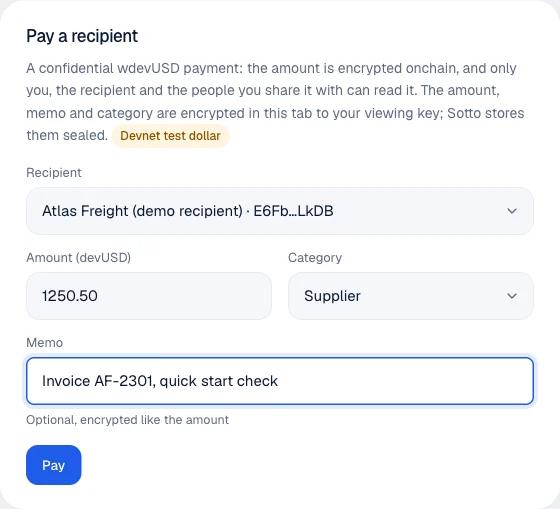
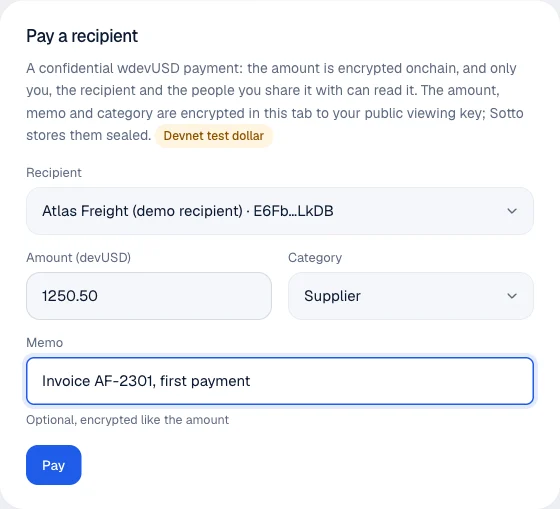
docs(web): the walkthrough's checklist and pay pictures from the live site, and the rehearsal as measured
The four pictures were taken on https://sottoapp.xyz with a new wallet,
and the picture of the finished checklist is added. The facts record the
wallet windows per step with Solflare and Phantom, the blocked payments
fixed in place and what the SOL faucet's limit looks like (O9, O10).

Changed region(s): [[0.0304, 0.2358, 0.4857, 0.2947], [0.6375, 0.2063, 0.9411, 0.2358], [0.2732, 0.7367, 0.5161, 0.7662]]

diff --git a/apps/web/app/app/walkthrough/page.tsx b/apps/web/app/app/walkthrough/page.tsx
@@ -176,9 +176,11 @@ export default function WalkthroughPage() {
               </li>
             </ol>
             <p>
-              Each finished step has its <B>{L.verify.label}</B> link. The same checklist is pinned
-              at the top of Payments, Payroll and Proofs until it is complete. Then the dashboard
-              says <B>{L.readyDone.label}</B>, with the button <B>{L.payAtlas.label}</B>.
+              Each finished step that happened onchain has its <B>{L.verify.label}</B> link
+              (registering the viewing key is a signed message, not a transaction). The same
+              checklist is pinned at the top of Payments, Payroll and Proofs until it is complete.
+              Then the dashboard says <B>{L.readyDone.label}</B>, with the button{" "}
+              <B>{L.payAtlas.label}</B>.
             </p>
             <Shot
               name="ready-start"
@@ -189,8 +191,14 @@ export default function WalkthroughPage() {
             <Shot
               name="ready-account"
               width={1360}
-              height={951}
+              height={947}
               alt="The checklist with test SOL done and the account step in turn: what the wallet will ask, and the button Unlock my keys and set up the account"
+            />
+            <Shot
+              name="ready-done"
+              width={1360}
+              height={147}
+              alt="The dashboard once the checklist is complete: Ready. Make your first confidential payment, with the button Pay Atlas Freight"
             />
           </Step>
 

diff --git a/docs/02-VERIFIED-FACTS.md b/docs/02-VERIFIED-FACTS.md
@@ -378,3 +378,9 @@ O7. A Token-2022 confidential account's two public counters tell, without any ke
 O8. What a payment ties up in SOL (two real payments on devnet, 2026-10-09 and 2026-10-10, read back with `getTransaction`): with Phantom (five version 0 transactions) the wallet's SOL fell from 0.046952 to 0.034771 over the four proof transactions and came back to 0.046892 with the fifth, a net cost of 0.00006 SOL; with Solflare (one version 1 transaction) the cost was 0.00002 SOL, the proof accounts being made and closed inside it. So a payment needs about 0.0122 SOL of headroom while it runs; the app asks for SOL when a wallet holds under 0.013. The account's setup cost 0.003038 SOL.
 
 **VERIFIED** 2026-10-10 · devnet · step 4.11.
+
+O9. The checklist "Get ready to pay" on https://sottoapp.xyz with two new wallets (2026-10-10, `3c9bc89e2934`; the first Solflare run of the checklist on `28ebc6469169`). Wallet windows per step, both wallets: sign in 2 (the connection, the sign in message); test SOL 0; the account 4 (three key messages, one transaction); the public viewing key 1 message; devUSD 0; the move 1 transaction (wrap and deposit together); the apply 1 transaction; the payment 1 transaction and 1 message with Solflare 2.39.1, 5 transactions and 1 message with Phantom 26.31.0. So from sign in to the first payment: 11 windows with Solflare, 15 with Phantom, the same as before the checklist (O4, O5). Times, unattended, from a step's button to the step shown as done: Solflare's first five steps took 13.1 s, 23.1 s, 6.1 s, 13.1 s and 17.1 s (its apply transaction was onchain within a second of its approval; the script's own waiting hid when the page showed it), its payment 23.4 s after an unlock in place and the explorer check 6.4 s; Phantom's steps two to six took 18.5 s (with one transaction rejected on purpose and tried again), 5.1 s, 13 s, 8 s and 9 s, its payment 29.5 s and the explorer check 7.1 s. Neither run was one uninterrupted pass, so no single time from the landing is recorded. On `28ebc6469169` the viewing key step opened a second window, the dashboard's signature of the day's balance record; `3c9bc89e2934` holds that record back while the checklist is open, and the Phantom run saw one window. The explorer named Token-2022 Program: Confidential Transfer and showed the amount nowhere, both times.
+
+O10. The blocked payments on the live site (same day, both wallets). A payment of 150,000 devUSD against 98,749.5 available: the block came before any wallet window and before a payment row, listed 98749.5 wdevUSD available, 0 pending and 900000 devUSD public, prefilled 51250.5, and moved it with two transactions; the form kept its recipient, amount and memo. The next wallet window rejected: "You cancelled in your wallet. Nothing was sent", the wallet's own words, "Your form is kept.", the question about devnet with the way there in both wallets; "Try again" settled the same payment and no second row appeared. A transaction of the account step rejected with Phantom: the list stayed as it was, with the same question, and "Try again" finished the step. With the SOL faucet's limit for the network address used up, the checklist showed "Sotto's faucet cannot send this wallet test SOL right now. Get devnet SOL for it at faucet.solana.com, then reload this page."; `requestAirdrop` on the public devnet RPC answered "Internal error", and the wallet went on with 0.045 SOL sent from another test wallet. In one automated Solflare pass the move from the block waited with no wallet window after the explorer's tab had been opened and closed; it did not happen again in the same step run alone, nor with Phantom once Sotto's tab was brought to the front first.
+
+**VERIFIED** 2026-10-10 · devnet, https://sottoapp.xyz, the two extensions · step 4.11.

diff --git a/README.md b/README.md
@@ -121,11 +121,13 @@ From sign in to a first confidential payment, its check on the explorer and a pr
 5. **Move 100,000 devUSD**: one transaction that wraps the devUSD and deposits it into your confidential balance. You can change the amount first; it is public onchain, the balance it joins is not.
 6. **Apply pending balance**: one transaction that makes the deposit available to spend.
 
-Each finished step has its **Verify on Solana** link. The same checklist is pinned at the top of Payments, Payroll and Proofs until it is complete. Then the dashboard says **Ready. Make your first confidential payment**, with the button **Pay Atlas Freight**.
+Each finished step that happened onchain has its **Verify on Solana** link (registering the viewing key is a signed message, not a transaction). The same checklist is pinned at the top of Payments, Payroll and Proofs until it is complete. Then the dashboard says **Ready. Make your first confidential payment**, with the button **Pay Atlas Freight**.
 
 <img src="apps/web/public/walkthrough/ready-start.webp" alt="The checklist Get ready to pay on the dashboard: six steps, the first in turn with the button Get test SOL" width="820">
 
 <img src="apps/web/public/walkthrough/ready-account.webp" alt="The checklist with test SOL done and the account step in turn: what the wallet will ask, and the button Unlock my keys and set up the account" width="820">
+
+<img src="apps/web/public/walkthrough/ready-done.webp" alt="The dashboard once the checklist is complete: Ready. Make your first confidential payment, with the button Pay Atlas Freight" width="820">
 
 **4. Pay Atlas Freight.** **Pay Atlas Freight** opens **Payments** with the card **Pay a recipient** and, under **Recipient**, **Atlas Freight (demo recipient)** chosen already: a company made by quick start has this demo recipient from the start, a demo wallet whose account can receive confidential payments. Type an amount under **Amount (devUSD)**, for example 1250.50, a **Memo** if you like, and choose **Pay**. Solflare then asks for one transaction and then one message; Phantom asks for five transactions and then one message, as it signs the payment as five smaller transactions. If something stops the payment, the card says what happened and why, with a button that fixes it in place: too little in the confidential balance, too little SOL, a signature your wallet refused. Your form keeps what you typed.
 
